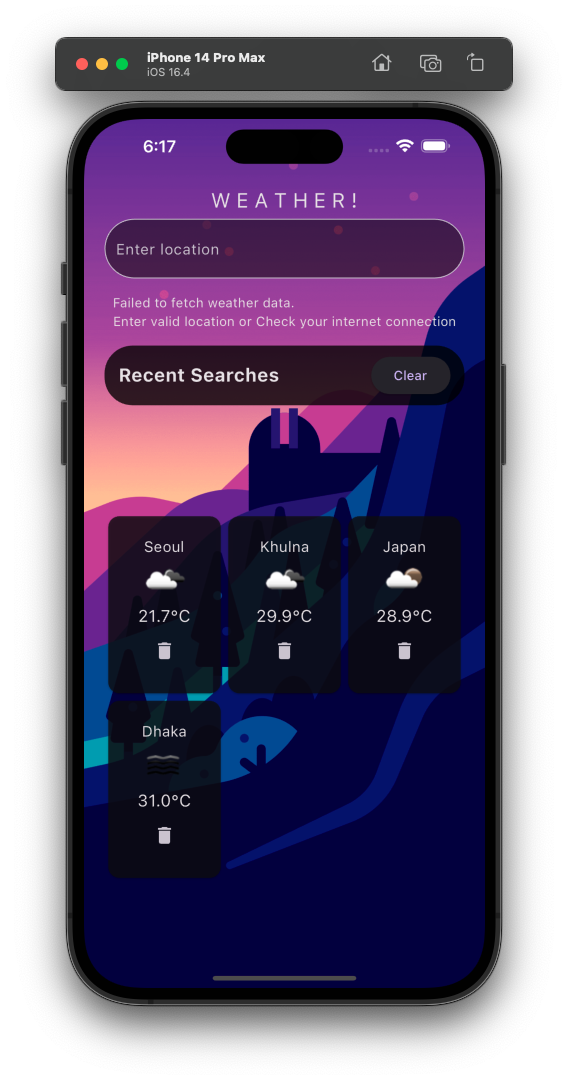
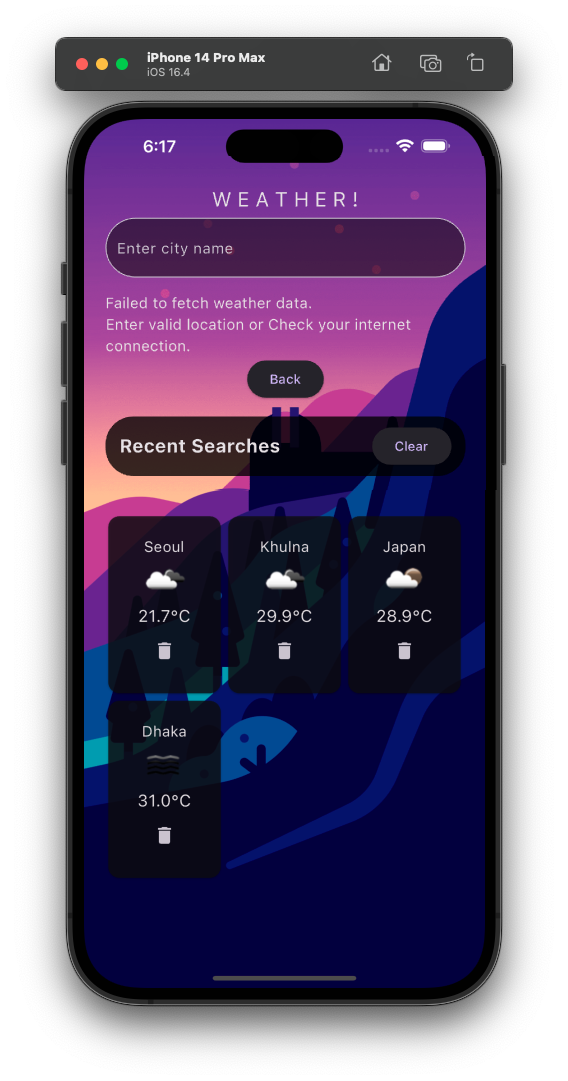
update

Changed region(s): [[0.1796, 0.1832, 0.838, 0.4579], [0.8081, 0.2137, 0.838, 0.2442], [0.7782, 0.1832, 0.8081, 0.2137]]

diff --git a/Assignments/mod9asgmt/lib/home_screen.dart b/Assignments/mod9asgmt/lib/home_screen.dart
@@ -4,6 +4,7 @@ import 'package:intl/intl.dart';
 import 'package:flutter/material.dart';
 import 'package:http/http.dart' as http;
 import 'package:mod9asgmt/background.dart';
+import 'package:shared_preferences/shared_preferences.dart';
 
 class HomeScreen extends StatefulWidget {
   const HomeScreen({super.key});
@@ -35,15 +36,40 @@ class _HomeScreenState extends State<HomeScreen> {
 
   String _sunRise = '';
   String _sunSet = '';
-  String _currentlyText = '';
   bool _isDayTime = true;
   bool _isLoading = false;
   bool _hasError = false;
-  final List<Map<String, String>> _recentSearches = [];
+  List<Map<String, String>> _recentSearches = [];
   @override
   void initState() {
     super.initState();
     fetchWeatherData('Seoul');
+    loadRecentSearches().then((recentSearches) {
+      setState(() {
+        _recentSearches = recentSearches;
+      });
+    });
+  }
+
+  void saveRecentSearches(List<Map<String, String>> recentSearches) async {
+    SharedPreferences prefs = await SharedPreferences.getInstance();
+    List<String> encodedSearches =
+        recentSearches.map((search) => json.encode(search)).toList();
+    await prefs.setStringList('recentSearches', encodedSearches);
+  }
+
+  Future<List<Map<String, String>>> loadRecentSearches() async {
+    SharedPreferences prefs = await SharedPreferences.getInstance();
+    List<String>? encodedSearches = prefs.getStringList('recentSearches');
+    if (encodedSearches != null) {
+      List<Map<String, String>> recentSearches = encodedSearches
+          .map((search) => json.decode(search) as Map<String, dynamic>)
+          .map((search) =>
+              search.map((key, value) => MapEntry(key, value.toString())))
+          .toList();
+      return recentSearches;
+    }
+    return [];
   }
 
   void fetchWeatherData(String location) async {
@@ -89,7 +115,14 @@ class _HomeScreenState extends State<HomeScreen> {
           final sunsetTime = int.parse(_sunSet);
 
           _isDayTime = now >= sunriseTime && now <= sunsetTime;
+// Check if the location already exists in the recent searches list
+          final existingIndex = _recentSearches.indexWhere(
+              (searchResult) => searchResult['location'] == _location);
 
+          if (existingIndex != -1) {
+            _recentSearches
+                .removeAt(existingIndex); // Remove the existing entry
+          }
           _recentSearches.add({
             'location': _location,
             'temperature': _temperature,
@@ -107,6 +140,7 @@ class _HomeScreenState extends State<HomeScreen> {
             'sunSet': _sunSet,
           });
           _isLoading = false;
+          saveRecentSearches(_recentSearches);
         });
       } else {
         throw Exception('Failed to fetch weather data');
@@ -150,12 +184,9 @@ class _HomeScreenState extends State<HomeScreen> {
                 DateTime.now().isAfter(sunriseDateTime) &&
                 DateTime.now().isBefore(sunsetDateTime);
 
-            String currentlyText = '';
 
             if (isDay) {
-              currentlyText = 'Currently day in $_location';
             } else {
-              currentlyText = 'Currently night in $_location';
             }
 
             setState(() {
@@ -168,7 +199,6 @@ class _HomeScreenState extends State<HomeScreen> {
               _feelsLike = searchResult['feelsLike']!;
               _pressure = pressure!;
               _isDayTime = isDay;
-              _currentlyText = currentlyText;
             });
           },
           onLongPress: () {
@@ -290,13 +320,7 @@ class _HomeScreenState extends State<HomeScreen> {
       useMaterial3: true,
     );
 
-    final sunriseDateTime = parseDateTimeFromUnixTimestamp(_sunRise);
-    final sunsetDateTime = parseDateTimeFromUnixTimestamp(_sunSet);
 
-    final isDay = sunriseDateTime != null &&
-        sunsetDateTime != null &&
-        DateTime.now().isAfter(sunriseDateTime) &&
-        DateTime.now().isBefore(sunsetDateTime);
 
     final allColor =
         _isDayTime ? Colors.white.withAlpha(130) : Colors.black.withAlpha(130);
@@ -330,7 +354,7 @@ class _HomeScreenState extends State<HomeScreen> {
                         fillColor: allColor,
                         focusColor: allColor,
                         filled: true,
-                        labelText: 'Enter location',
+                        labelText: 'Enter city name',
                         alignLabelWithHint: true,
                         border: OutlineInputBorder(
                           borderSide: BorderSide(color: allColor, width: 2.0),
@@ -349,8 +373,19 @@ class _HomeScreenState extends State<HomeScreen> {
                     if (_isLoading)
                       const CircularProgressIndicator()
                     else if (_hasError)
-                      const Text(
-                          'Failed to fetch weather data. \nEnter valid location or Check your internet connection')
+                      Column(
+                        children: [
+                          const Text(
+                            'Failed to fetch weather data. \nEnter valid location or Check your internet connection.',
+                            style: TextStyle(fontSize: 16),
+                          ),
+                          ElevatedButton(
+                              onPressed: () {
+                                fetchWeatherData(_location);
+                              },
+                              child: Text('Back'))
+                        ],
+                      )
                     else if (_location.isNotEmpty)
                       Column(
                         children: [

diff --git a/Assignments/mod9asgmt/macos/Flutter/GeneratedPluginRegistrant.swift b/Assignments/mod9asgmt/macos/Flutter/GeneratedPluginRegistrant.swift
@@ -5,8 +5,10 @@
 import FlutterMacOS
 import Foundation
 
+import connectivity_macos
 import shared_preferences_foundation
 
 func RegisterGeneratedPlugins(registry: FlutterPluginRegistry) {
+  ConnectivityPlugin.register(with: registry.registrar(forPlugin: "ConnectivityPlugin"))
   SharedPreferencesPlugin.register(with: registry.registrar(forPlugin: "SharedPreferencesPlugin"))
 }

diff --git a/Assignments/mod9asgmt/test/widget_test.dart b/Assignments/mod9asgmt/test/widget_test.dart
@@ -8,7 +8,6 @@
 import 'package:flutter/material.dart';
 import 'package:flutter_test/flutter_test.dart';
 
-import 'package:mod9asgmt/main.dart';
 
 void main() {
   testWidgets('Counter increments smoke test', (WidgetTester tester) async {
